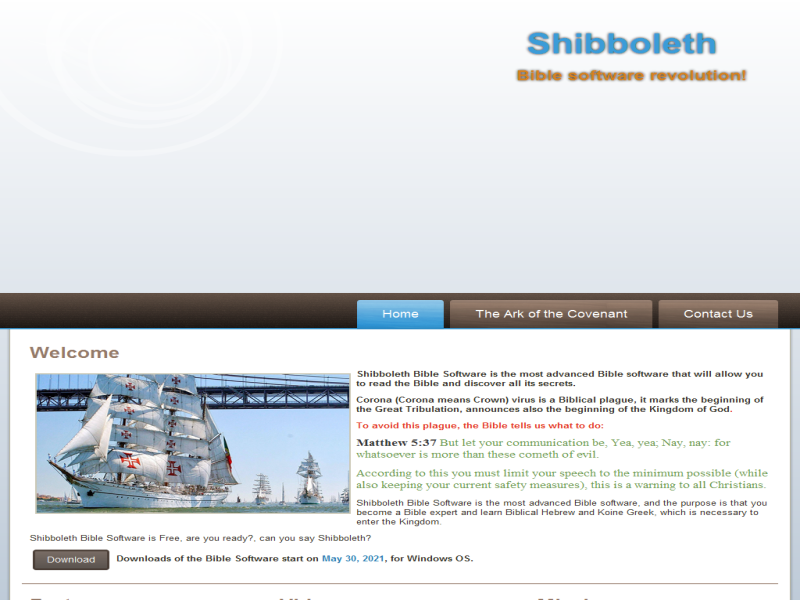
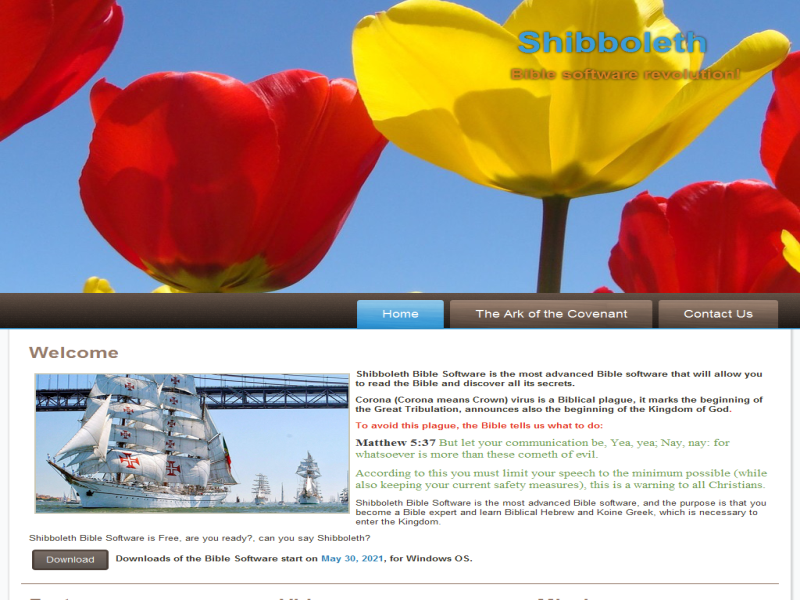
5

diff --git a/index.html b/index.html
@@ -1,5 +1,5 @@
 <!DOCTYPE html>
-<html dir="ltr" lang="en-US" class="safari safari0 desktop"><head><!-- Created by Artisteer v4.3.0.60858 -->
+<html dir="ltr" lang="en-US"><head><!-- Created by Artisteer v4.3.0.60858 -->
     <meta charset="utf-8">
     <title>Shibboleth Bible Software</title>
     <meta name="viewport" content="initial-scale = 1.0, maximum-scale = 1.0, user-scalable = no, width = device-width">
@@ -61,7 +61,7 @@ StatCounter"></a></div></noscript>
 </style></head>
 <body>
 <div id="art-main">
-<header class="art-header" style="background-position: 50% 0%; ">
+<header class="art-header">
 
     <div class="art-shapes">
         
@@ -79,7 +79,7 @@ StatCounter"></a></div></noscript>
                         
                     
 </header>
-<nav class="art-nav desktop-nav">
+<nav class="art-nav">
     <div class="art-nav-inner">
     <ul class="art-hmenu"><li><a href="software.html" class="active">Home</a></li><li><a href="the-ark-of-the-covenant.html">The Ark of the Covenant</a></li><li><a href="contact.html">Contact Us</a></li></ul> 
         </div>
@@ -153,7 +153,7 @@ StatCounter"></a></div></noscript>
 <div class="art-content-layout">
     <div class="art-content-layout-row">
     <div class="art-layout-cell layout-item-0" style="width: 12%">
-        <p><a href="#" class="art-rss-tag-icon" style="line-height: 38px; ">RSS</a><br></p>
+        <p><a href="#" class="art-rss-tag-icon" style="line-height: 38px;">RSS</a><br></p>
     </div><div class="art-layout-cell layout-item-1" style="width: 88%">
         <p>Shibboleth Bible Software 2021, Lisbon Portugal</p>
     </div>

diff --git a/software.html b/software.html
@@ -1,5 +1,5 @@
 <!DOCTYPE html>
-<html dir="ltr" lang="en-US" class="safari safari0 desktop"><head><!-- Created by Artisteer v4.3.0.60858 -->
+<html dir="ltr" lang="en-US"><head><!-- Created by Artisteer v4.3.0.60858 -->
     <meta charset="utf-8">
     <title>Shibboleth Bible Software</title>
     <meta name="viewport" content="initial-scale = 1.0, maximum-scale = 1.0, user-scalable = no, width = device-width">
@@ -61,7 +61,7 @@ StatCounter"></a></div></noscript>
 </style></head>
 <body>
 <div id="art-main">
-<header class="art-header" style="background-position: 50% 0%; ">
+<header class="art-header">
 
     <div class="art-shapes">
         
@@ -79,7 +79,7 @@ StatCounter"></a></div></noscript>
                         
                     
 </header>
-<nav class="art-nav desktop-nav">
+<nav class="art-nav">
     <div class="art-nav-inner">
     <ul class="art-hmenu"><li><a href="software.html" class="active">Home</a></li><li><a href="the-ark-of-the-covenant.html">The Ark of the Covenant</a></li><li><a href="contact.html">Contact Us</a></li></ul> 
         </div>
@@ -153,7 +153,7 @@ StatCounter"></a></div></noscript>
 <div class="art-content-layout">
     <div class="art-content-layout-row">
     <div class="art-layout-cell layout-item-0" style="width: 12%">
-        <p><a href="#" class="art-rss-tag-icon" style="line-height: 38px; ">RSS</a><br></p>
+        <p><a href="#" class="art-rss-tag-icon" style="line-height: 38px;">RSS</a><br></p>
     </div><div class="art-layout-cell layout-item-1" style="width: 88%">
         <p>Shibboleth Bible Software 2021, Lisbon Portugal</p>
     </div>

diff --git a/contact.html b/contact.html
@@ -1,5 +1,5 @@
 <!DOCTYPE html>
-<html dir="ltr" lang="en-US" class="safari safari0 desktop"><head><!-- Created by Artisteer v4.3.0.60858 -->
+<html dir="ltr" lang="en-US"><head><!-- Created by Artisteer v4.3.0.60858 -->
     <meta charset="utf-8">
     <title>Contact Us</title>
     <meta name="viewport" content="initial-scale = 1.0, maximum-scale = 1.0, user-scalable = no, width = device-width">
@@ -56,7 +56,7 @@ StatCounter"></a></div></noscript>
 </head>
 <body>
 <div id="art-main">
-<header class="art-header" style="background-position: 50% 0%; ">
+<header class="art-header">
 
     <div class="art-shapes">
         
@@ -74,7 +74,7 @@ StatCounter"></a></div></noscript>
                         
                     
 </header>
-<nav class="art-nav desktop-nav">
+<nav class="art-nav">
     <div class="art-nav-inner">
     <ul class="art-hmenu"><li><a href="software.html" class="">Home</a></li><li><a href="the-ark-of-the-covenant.html" class="">The Ark of the Covenant</a></li><li><a href="contact.html" class="active">Contact Us</a></li></ul> 
         </div>
@@ -104,7 +104,7 @@ StatCounter"></a></div></noscript>
 <div class="art-content-layout">
     <div class="art-content-layout-row">
     <div class="art-layout-cell layout-item-0" style="width: 12%">
-        <p><a href="#" class="art-rss-tag-icon" style="line-height: 38px; ">RSS</a><br></p>
+        <p><a href="#" class="art-rss-tag-icon" style="line-height: 38px;">RSS</a><br></p>
     </div><div class="art-layout-cell layout-item-1" style="width: 88%">
         <p>Shibboleth Bible Software 2021, Lisbon Portugal</p>
     </div>

diff --git a/style.css b/style.css
@@ -3,12 +3,6 @@
 #art-main
 {
    background: #F9FAFB url('images/pageglare.png') top center no-repeat scroll;
-   background: url('images/pageglare.png') top center no-repeat, -webkit-linear-gradient(top, #FFFFFF 0, #BCC9D7 1050px) no-repeat;
-   background: url('images/pageglare.png') top center no-repeat, -moz-linear-gradient(top, #FFFFFF 0, #BCC9D7 1050px) no-repeat;
-   background: url('images/pageglare.png') top center no-repeat, -o-linear-gradient(top, #FFFFFF 0, #BCC9D7 1050px) no-repeat;
-   background: url('images/pageglare.png') top center no-repeat, -ms-linear-gradient(top, #FFFFFF 0, #BCC9D7 1050px) no-repeat;
-   -svg-background: url('images/pageglare.png') top center no-repeat, linear-gradient(top, #FFFFFF 0, #BCC9D7 1050px) no-repeat;
-   background: url('images/pageglare.png') top center no-repeat, linear-gradient(to bottom, #FFFFFF 0, #BCC9D7 1050px) no-repeat;
    margin:0 auto;
    font-size: 13px;
    font-family: 'Century Gothic', Arial, 'Arial Unicode MS', Helvetica, Sans-Serif;
@@ -939,12 +933,9 @@ ul.art-hmenu ul
 .art-sheet
 {
    background: #FFFFFF;
-   -webkit-box-shadow:0 0 3px 2px rgba(0, 0, 0, 0.15);
-   -moz-box-shadow:0 0 3px 2px rgba(0, 0, 0, 0.15);
-   box-shadow:0 0 3px 2px rgba(0, 0, 0, 0.15);
-   border:1px solid #B9B59D;
-   border-top:none;
-   border-bottom:none;
+   -webkit-box-shadow:1px 1px 3px 2px rgba(0, 0, 0, 0.15);
+   -moz-box-shadow:1px 1px 3px 2px rgba(0, 0, 0, 0.15);
+   box-shadow:1px 1px 3px 2px rgba(0, 0, 0, 0.15);
    padding:10px;
    margin:0 auto;
    position:relative;

diff --git a/the-ark-of-the-covenant.html b/the-ark-of-the-covenant.html
@@ -1,5 +1,5 @@
 <!DOCTYPE html>
-<html dir="ltr" lang="en-US" class="safari safari0 desktop"><head><!-- Created by Artisteer v4.3.0.60858 -->
+<html dir="ltr" lang="en-US"><head><!-- Created by Artisteer v4.3.0.60858 -->
     <meta charset="utf-8">
     <title>The Ark of the Covenant has been found</title>
     <meta name="viewport" content="initial-scale = 1.0, maximum-scale = 1.0, user-scalable = no, width = device-width">
@@ -23,7 +23,7 @@
 </style></head>
 <body>
 <div id="art-main">
-<header class="art-header" style="background-position: 50% 0%; ">
+<header class="art-header">
 
     <div class="art-shapes">
         
@@ -41,7 +41,7 @@
                         
                     
 </header>
-<nav class="art-nav desktop-nav">
+<nav class="art-nav">
     <div class="art-nav-inner">
     <ul class="art-hmenu"><li><a href="software.html" class="">Home</a></li><li><a href="the-ark-of-the-covenant.html" class="active">The Ark of the Covenant</a></li><li><a href="contact.html">Contact Us</a></li></ul> 
         </div>
@@ -74,7 +74,7 @@
 <div class="art-content-layout">
     <div class="art-content-layout-row">
     <div class="art-layout-cell layout-item-0" style="width: 12%">
-        <p><a href="#" class="art-rss-tag-icon" style="line-height: 38px; ">RSS</a><br></p>
+        <p><a href="#" class="art-rss-tag-icon" style="line-height: 38px;">RSS</a><br></p>
     </div><div class="art-layout-cell layout-item-1" style="width: 88%">
         <p>Shibboleth Bible Software 2021, Lisbon Portugal</p>
     </div>
